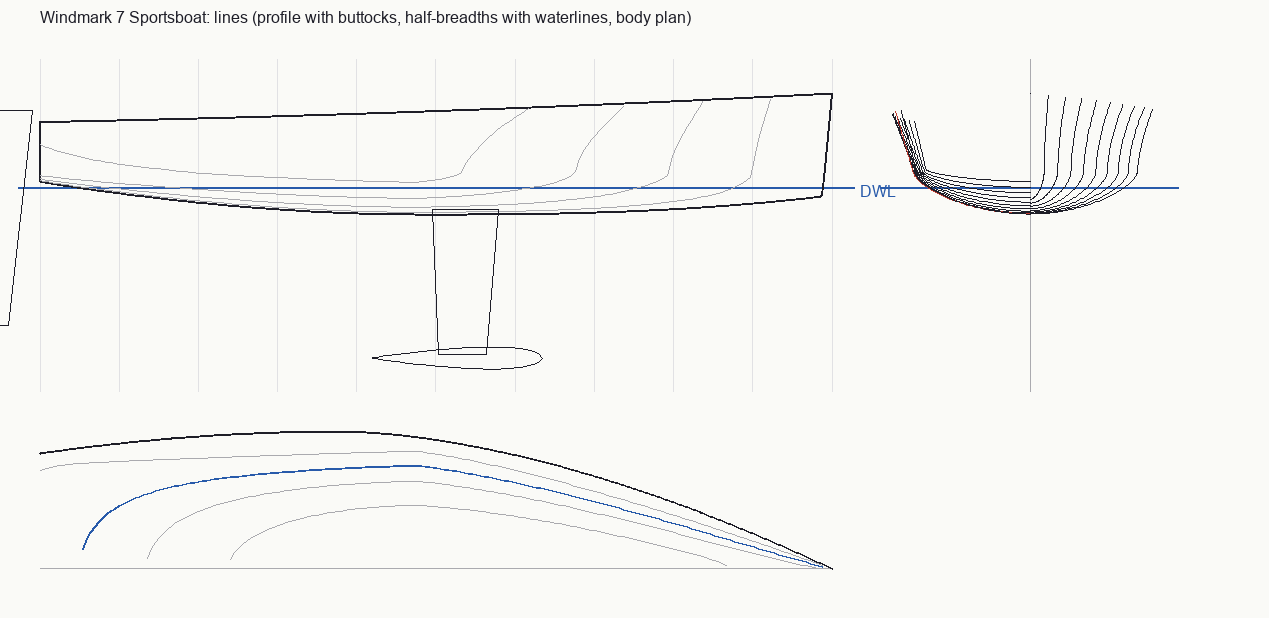
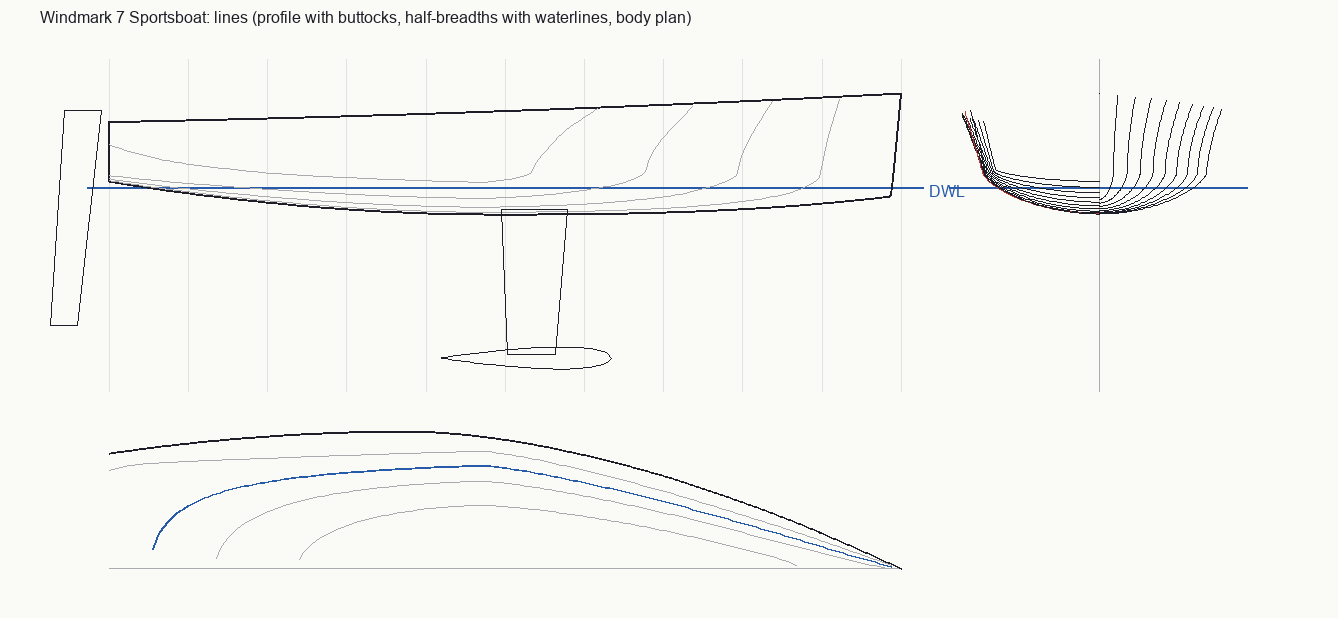
[docs] Boat generator README, third-party rows; preview look and framing
- brighter sky and deeper water, gelcoat / non-slip contrast
- sail edge tapes, full-length battens, demo sheer stripe through uv1
- lines plan fits transom-hung rudders

diff --git a/tools/boatgen/boatgen/render.py b/tools/boatgen/boatgen/render.py
@@ -30,12 +30,12 @@ FS = """
 in vec3 v_pos; in vec3 v_nrm; in vec2 v_uv0; in vec2 v_uv1; in vec4 v_lpos;
 uniform vec4 base_color; uniform float metallic; uniform float roughness; uniform int mat_id;
 uniform vec3 cam_pos; uniform vec3 sun_dir; uniform sampler2D shadow_map; uniform int uv_check;
-uniform int water_on; uniform int hull_livery;
+uniform int water_on; uniform int hull_livery; uniform int battens;
 layout(location = 0) out vec4 frag;
 
 vec3 sky(vec3 d) {
     float h = clamp(d.y, -1.0, 1.0);
-    vec3 zen = vec3(0.18, 0.36, 0.70), hor = vec3(0.78, 0.85, 0.92), gnd = vec3(0.10, 0.16, 0.20);
+    vec3 zen = vec3(0.10, 0.27, 0.62), hor = vec3(0.66, 0.77, 0.90), gnd = vec3(0.05, 0.12, 0.17);
     vec3 c = h > 0.0 ? mix(hor, zen, pow(h, 0.55)) : mix(hor * 0.6, gnd, pow(-h, 0.4));
     float s = max(dot(d, sun_dir), 0.0);
     return c + vec3(1.0, 0.92, 0.8) * (pow(s, 600.0) * 30.0 + pow(s, 12.0) * 0.25);
@@ -86,6 +86,15 @@ void main() {
         float w = fwidth(uv.y) * 1.5 + 0.008;
         albedo *= 1.0 - 0.18 * (1.0 - smoothstep(0.0, w, 0.45 - s));
         albedo *= 0.96 + 0.04 * sin(uv.x * 0.7);
+        // edge tapes and batten pockets from the normalised uv1 (u: luff 0 -> leech 1, v: head 0 -> foot 1)
+        vec2 s1 = v_uv1;
+        float eu = min(s1.x, 1.0 - s1.x), ev = 1.0 - s1.y;
+        float tape = 1.0 - smoothstep(0.012, 0.018, min(eu, ev));
+        float bv = fract(s1.y * 5.0);
+        // full-length battens (the two layers mirror uv1, so luff and leech are not told apart here)
+        float batten = (1.0 - smoothstep(0.004, 0.007, abs(bv - 0.5) * 0.2)) * step(0.04, eu)
+                       * step(0.08, s1.y) * step(s1.y, 0.92) * float(battens);
+        albedo = mix(albedo, vec3(0.12, 0.13, 0.15), max(tape, batten * 0.45));
     }
     if (hull_livery == 1 && mat_id == 0 && uv_check == 0) {
         // demonstration livery through uv1: a sheer stripe on both hull bands
@@ -105,9 +114,9 @@ void main() {
     vec3 F = F0 + (1.0 - F0) * pow(1.0 - max(dot(H, V), 0.0), 5.0);
     vec3 spec = D * G * F / max(4.0 * NL * NV, 1e-3);
     float sh = shadow();
-    vec3 sun = vec3(3.1, 2.95, 2.7);
+    vec3 sun = vec3(3.6, 3.4, 3.1);
     vec3 diff = albedo * (1.0 - metal) / 3.14159;
-    vec3 amb = albedo * (1.0 - metal) * mix(vec3(0.22, 0.20, 0.18), vec3(0.42, 0.50, 0.62), N.y * 0.5 + 0.5);
+    vec3 amb = albedo * (1.0 - metal) * mix(vec3(0.16, 0.15, 0.14), vec3(0.34, 0.42, 0.56), N.y * 0.5 + 0.5);
     vec3 R = reflect(-V, N);
     vec3 Fr = F0 + (1.0 - F0) * pow(1.0 - NV, 5.0);
     vec3 env = sky(R) * Fr * pow(1.0 - rough, 2.2) * (metal > 0.5 ? 1.0 : 0.6);
@@ -118,7 +127,7 @@ void main() {
     }
     if (water_on == 1 && v_pos.y < 0.0) { // under water: absorb toward the water colour with depth
         float d = -v_pos.y;
-        col = mix(col, vec3(0.02, 0.10, 0.12), 1.0 - exp(-d * 1.1));
+        col = mix(col, vec3(0.01, 0.07, 0.09), 1.0 - exp(-d * 0.9));
     }
     frag = vec4(col, 1.0);
 }
@@ -131,7 +140,7 @@ uniform vec3 cam_pos; uniform vec3 sun_dir; uniform sampler2D shadow_map;
 layout(location = 0) out vec4 frag;
 vec3 sky(vec3 d) {
     float h = clamp(d.y, -1.0, 1.0);
-    vec3 zen = vec3(0.18, 0.36, 0.70), hor = vec3(0.78, 0.85, 0.92);
+    vec3 zen = vec3(0.10, 0.27, 0.62), hor = vec3(0.66, 0.77, 0.90);
     vec3 c = mix(hor, zen, pow(max(h, 0.0), 0.55));
     float s = max(dot(d, sun_dir), 0.0);
     return c + vec3(1.0, 0.92, 0.8) * (pow(s, 900.0) * 40.0);
@@ -145,7 +154,7 @@ void main() {
     vec3 V = normalize(cam_pos - v_pos);
     float F = 0.02 + 0.98 * pow(1.0 - max(dot(N, V), 0.0), 5.0);
     vec3 R = reflect(-V, N);
-    vec3 deep = vec3(0.012, 0.07, 0.10);
+    vec3 deep = vec3(0.006, 0.045, 0.075);
     vec3 s = v_lpos.xyz / v_lpos.w * 0.5 + 0.5;
     float sh = 1.0;
     if (s.x > 0.0 && s.x < 1.0 && s.y > 0.0 && s.y < 1.0) sh = (s.z - 0.001 > texture(shadow_map, s.xy).r) ? 0.55 : 1.0;
@@ -284,7 +293,8 @@ class Renderer:
         quad = np.array([-1, -1, 1, -1, -1, 1, 1, 1], dtype="f4")
         self.quad = ctx.vertex_array(self.post_prog, [(ctx.buffer(quad), "2f", "in_pos")])
 
-    def load(self, glb_path, extra=None, hide=(), transform=None):
+    def load(self, glb_path, extra=None, hide=(), transform=None, battened=()):
+        self.battened = tuple(battened)
         prims, doc = read_glb(glb_path)
         if transform is not None:
             R = np.asarray(transform, dtype=np.float64)
@@ -339,7 +349,7 @@ class Renderer:
         mvp = (Pm @ V).astype("f4")
         self.ms_fbo.use()
         ctx.viewport = (0, 0, self.W, self.H)
-        bg = (0.80, 0.85, 0.90) if background is None else background
+        bg = (0.66, 0.77, 0.90) if background is None else background
         self.ms_fbo.clear(*bg, 1.0, depth=1.0)
         self.shadow_tex.use(0)
         p = self.prog
@@ -356,6 +366,7 @@ class Renderer:
             _set(p, "metallic", pbr["metallicFactor"])
             _set(p, "roughness", pbr["roughnessFactor"])
             _set(p, "mat_id", MAT_IDS.get(mat, 0))
+            _set(p, "battens", int(name in self.battened))
             vao.render()
         if water or ground:
             S = 400.0
@@ -374,6 +385,7 @@ class Renderer:
                 ctx.blend_func = self.mgl.SRC_ALPHA, self.mgl.ONE_MINUS_SRC_ALPHA
             else:
                 prog = self.prog
+                _set(prog, "uv_check", 0)
                 _set(prog, "base_color", (0.55, 0.56, 0.57, 1.0))
                 _set(prog, "metallic", 0.0)
                 _set(prog, "roughness", 0.9)
@@ -397,8 +409,8 @@ class Renderer:
         _write(pp, "proj", Pm.astype("f4").T.tobytes())
         _set(pp, "texel", (1 / self.W, 1 / self.H))
         _set(pp, "ao_radius", float(np.linalg.norm(eye - target) * 0.012))
-        _set(pp, "bg_top", (0.55, 0.68, 0.86))
-        _set(pp, "bg_bot", (0.86, 0.89, 0.92))
+        _set(pp, "bg_top", (0.30, 0.50, 0.80))
+        _set(pp, "bg_bot", (0.78, 0.85, 0.93))
         _set(pp, "bg_on", 1)
         self.quad.render(self.mgl.TRIANGLE_STRIP)
         img = np.frombuffer(self.out_fbo.read(components=3), dtype=np.uint8).reshape(self.H, self.W, 3)

diff --git a/tools/boatgen/boatgen/previews.py b/tools/boatgen/boatgen/previews.py
@@ -21,6 +21,7 @@ def render_all(boat, out_dir, preview_dir, size=(1600, 1000), log=print):
     glb = os.path.join(out_dir, f"{cid}.glb")
     files = []
     r = Renderer(*size)
+    bat = tuple("sail_" + sid for sid, s in boat.sails.items() if s.type == "main")
 
     def shot(name, **kw):
         path = os.path.join(preview_dir, f"{cid}_{name}.png")
@@ -30,15 +31,16 @@ def render_all(boat, out_dir, preview_dir, size=(1600, 1000), log=print):
     # 1. hero: upwind, heeled, from the windward bow quarter
     posed = os.path.join(out_dir, f"{cid}_upwind.glb")
     boat.write_posed_glb(posed, "upwind")
-    r.load(posed, transform=heel_matrix(14))
-    t = np.array([0.0, 0.36 * top, 0.05 * L])
-    shot("upwind", eye=orbit(t, 1.95 * top, 38, 9), target=t, fov=36)
+    r.load(posed, transform=heel_matrix(14), battened=bat)
+    t = np.array([-0.06 * top, 0.44 * top, 0.05 * L])
+    shot("upwind", eye=orbit(t, 1.95 * top, 38, 7), target=t, fov=36, livery=True)
     # 2. deck: flat standard model from the starboard quarter, sails hidden
     r.load(glb, hide=("sail_",))
     t = np.array([0.0, 0.55, -0.12 * L])
     shot("deck", eye=orbit(t, 0.62 * L, -145, 34), target=t, fov=42)
     # 3. profile: the model as exported (flat standard sails), dry, from starboard
-    r.load(glb, hide=tuple(f"sail_{sid}" for sid, s in boat.sails.items() if s.type not in ("main", "jib", "genoa")))
+    r.load(glb, hide=tuple(f"sail_{sid}" for sid, s in boat.sails.items() if s.type not in ("main", "jib", "genoa")),
+           battened=bat)
     t = np.array([0.0, 0.42 * top - 0.3 * boat.app.draft, 0.1 * L])
     shot("profile", eye=orbit(t, 2.2 * top, -90, 3), target=t, fov=33, water=False, ground=True)
     # 4. downwind with the spinnaker (or reaching with a code zero)
@@ -47,9 +49,9 @@ def render_all(boat, out_dir, preview_dir, size=(1600, 1000), log=print):
     if pose:
         posed = os.path.join(out_dir, f"{cid}_{pose}.glb")
         boat.write_posed_glb(posed, pose)
-        r.load(posed, transform=heel_matrix(7))
-        t = np.array([-0.1 * L, 0.38 * top, 0.1 * L])
-        shot(pose, eye=orbit(t, 2.0 * top, -128, 8), target=t, fov=38)
+        r.load(posed, transform=heel_matrix(7), battened=bat)
+        t = np.array([-0.12 * top, 0.44 * top, 0.1 * L])
+        shot(pose, eye=orbit(t, 1.95 * top, -128, 7), target=t, fov=38, livery=True)
     # 5. uv check on the flat model
     r.load(glb, hide=("sail_",))
     t = np.array([0.0, 0.2, 0.0])

diff --git a/tools/boatgen/boatgen/lines.py b/tools/boatgen/boatgen/lines.py
@@ -9,7 +9,8 @@ def draw(hull, appendages, path, title="", px_per_m=110):
     zmin = -appendages.get("draft", hull.Tc) - 0.2
     zmax = float(hull.zs(np.array([L]))[0]) + 0.3
     m = 40
-    W = int(L * px_per_m + 2 * m + B * px_per_m * 1.3 + m)
+    x_min = min([0.0] + [p[0] for poly in appendages.get("profiles", []) for p in poly]) - 0.1
+    W = int((L - x_min) * px_per_m + 2 * m + B * px_per_m * 1.3 + m)
     prof_h = (zmax - zmin) * px_per_m
     H = int(prof_h + B / 2 * px_per_m + 3 * m + 30)
     img = Image.new("RGB", (W, H), (250, 250, 247))
@@ -20,7 +21,7 @@ def draw(hull, appendages, path, title="", px_per_m=110):
         font = ImageFont.load_default()
     ink, grey, blue, red = (30, 30, 40), (170, 170, 175), (40, 90, 170), (190, 60, 50)
     oy = m + 20 + zmax * px_per_m     # DWL row of the profile view
-    ox = m
+    ox = m - x_min * px_per_m
 
     def P(x, z):
         return (ox + x * px_per_m, oy - z * px_per_m)

diff --git a/tools/boatgen/boatgen/gltf.py b/tools/boatgen/boatgen/gltf.py
@@ -11,8 +11,8 @@ import numpy as np
 
 # name -> (base colour RGBA linear, metallic, roughness, extras)
 MATERIALS = {
-    "gelcoat":     ((0.86, 0.87, 0.88, 1.0), 0.0, 0.18, {"tiling_m": 1.0}),
-    "nonslip":     ((0.62, 0.64, 0.65, 1.0), 0.0, 0.85, {"tiling_m": 0.25}),
+    "gelcoat":     ((0.90, 0.91, 0.92, 1.0), 0.0, 0.16, {"tiling_m": 1.0}),
+    "nonslip":     ((0.58, 0.59, 0.58, 1.0), 0.0, 0.85, {"tiling_m": 0.25}),
     "antifouling": ((0.035, 0.045, 0.07, 1.0), 0.0, 0.75, {"tiling_m": 1.0}),
     "boottop":     ((0.50, 0.03, 0.03, 1.0), 0.0, 0.25, {"tiling_m": 1.0}),
     "carbon":      ((0.035, 0.035, 0.038, 1.0), 0.1, 0.30, {"tiling_m": 0.05}),

diff --git a/tools/boatgen/README.md b/tools/boatgen/README.md
@@ -1,0 +1,195 @@
+# boatgen: parametric boat generator
+
+Builds a complete racing-yacht model from a boat-class file (`data/classes/<id>.boat.json`, schema
+`windmark.boatclass/1`, see `docs/specs/data_format.md` §3): a faired hull, deck with cockpit and cabin top,
+keel fin and bulb, rudder, mast, boom, spreaders and standing rigging, flat two-layer sails in their standard
+hoisted shape, and rule-placed deck hardware. It also writes the physics sidecar (hydrostatics, waterline,
+buoyancy samples, collision shapes, rig and sail data) and renders preview images headless.
+
+Status: proof of concept. See "Limits and next steps" at the end.
+
+## Running
+
+```
+cd tools/boatgen
+python3 -m boatgen ../../data/classes/wm12.boat.json ../../data/classes/wm7.boat.json
+```
+
+Options: `--out DIR` (default `tools/boatgen/out/`, not committed), `--previews DIR` (default
+`tools/boatgen/previews/`), `--no-previews`, `--size 1600x1000`, `--quiet`. About 8 s per boat on an M-series Mac.
+
+Dependencies: Python 3.9+, `numpy`, `Pillow`; previews also need `moderngl` (`pip3 install --user moderngl`),
+which opens a headless OpenGL 4.1 context (no window). Nothing else: the GLB writer, triangulation, lofting and
+hydrostatics are in this package.
+
+## Outputs (per class, in `--out`)
+
+| file | content |
+| --- | --- |
+| `<id>.glb` | the model, flat standard sails |
+| `<id>_collision.glb` | low-poly collision meshes (node names carry Godot's `-convcolonly` import suffix) |
+| `<id>.physics.json` | physics sidecar (below) |
+| `<id>_upwind.glb`, `<id>_downwind.glb` | preview poses only: sails trimmed with camber and twist, boom swung |
+
+Previews in `previews/`: `<id>_upwind.png` (heeled, trimmed, demo livery), `<id>_downwind.png` (spinnaker set),
+`<id>_profile.png` (the exported model as is, dry, from starboard), `<id>_deck.png` (cockpit and deck
+hardware), `<id>_uv.png` (0.25 m checker on uv0 of every surface) and `<id>_lines.png` (lines plan: profile with
+buttocks, half-breadths with waterlines, body plan).
+
+## Frames and units
+
+SI units, angles in radians. The class file and the physics sidecar use the boat body frame of
+`docs/specs/conventions.md` §3: x forward, y port, z up, origin on the centreline in the DWL plane at mid LWL.
+The GLB uses the same origin with glTF axes: `(X, Y, Z) = (y, z, x)`, so +Y is up, +Z is forward and +X is port.
+That is a rotation, not a mirror, so triangle winding is preserved. Internally the modules work with x measured
+forward from the transom; `classfile.py` converts.
+
+The DWL floats the boat in sailing trim with the crew aboard: the generated hull displaces
+`hull.displacement + crew.weight`.
+
+## Class-file fields
+
+All base fields are those of `docs/specs/data_format.md` §3 and are used as specified there:
+`hull.{loa, lwl, beam_max, bwl, draft_canoe, displacement, prismatic, section_shape, rocker, freeboard,
+transom_width, stem_x, transom_x, max_beam_station, lcb_x, bow_fineness}`, `keel.{type, depth, chord_root,
+chord_tip, thickness, sweep, x, fin_mass, bulb_mass, bulb_length, bulb_diameter}`, `rudder.{type, depth,
+chord_root, chord_tip, thickness, x}`, `rig.{I, J, P, E, mast_height, mast_x, boom_height, fractional,
+bowsprit, pole}`, `sails[].{id, type, area, luff, tack_x}`, `crew.{count, weight}`.
+
+How the generator reads a few of them:
+
+- `section_shape.type` sets the bottom section family (`v`, `round`, `u`, `flat`, `chined`); `deadrise` bends
+  `v` and `chined` bottoms; `chine_height` is the height of the hard chine. `midship_coefficient` is **not**
+  imposed: with Cp, LWL, BWL, Tc and the displaced volume all fixed, Cm is already determined
+  (V = Cp · Cm · LWL · BWL · Tc). The generator hits the volume and Cp exactly and reports the resulting Cm next
+  to the requested one (`hydrostatics.midship` and `midship_requested`).
+- `rocker.fwd` below `draft_canoe` gives a forefoot below the DWL (plumb-bow style); `rocker.aft` below
+  `draft_canoe` gives an immersed transom and then needs `transom_x = -lwl/2`.
+- `lcb_x` is the LCB target (default 53.5 % LWL aft of the forward end when absent).
+- `max_beam_station` and `bow_fineness` shape the sheer plan view with the rule of `collisions.md` §2.1, so the
+  2-D collision outline and the 3-D deck edge agree.
+- `sails[].area` is matched exactly by the flat outline (mainsail roach, headsail clew position, spinnaker
+  width). `luff` and `tack_x` override the rig-derived values when given; `leech` and `foot` are not used yet.
+
+### `visual` block (generator only, opaque to the core and the VPP)
+
+Every key is optional; defaults scale with LOA.
+
+| key | default | meaning |
+| --- | --- | --- |
+| `hull.max_bwl_pos` | 0.55 | widest waterline, fraction of LWL aft of the forward end |
+| `hull.max_draft_pos` | 0.55 | deepest canoe body, fraction of LWL aft of the forward end |
+| `hull.keel_line_exponent` | 2.6 | keel-line fullness (2 = parabolic, larger = flatter bottom) |
+| `hull.bilge_height` | 0.18 · mid freeboard | height of the bilge turn above the DWL |
+| `hull.topside_flare` | 1.7 | topside curve exponent (1 = straight flare) |
+| `hull.transom_bottom_width` | 0.9 · transom_width | width of the hull bottom at the transom |
+| `hull.deck_camber` | 0.022 | deck crown as a fraction of the local beam |
+| `hull.sheer_spring` | 0 | extra sag of the sheer at mid length (m) |
+| `hull.boot_top` | [0.04, 0.10] | antifouling up to [0], boot-top stripe up to [1] (m above the DWL) |
+| `hull.stem_radius` | 0.04 | forefoot rounding (m) |
+| `hull.lcb_fraction` | 0.535 | LCB target when `hull.lcb_x` is absent |
+| `hull.chine_start` | 0.42 | where a hard chine begins, fraction of LOA aft of the stem |
+| `deck.cockpit` | length 0.30 LOA, width 0.62, depth 0.42 (LOA/12)^0.5, open_transom true, aft_deck 0 | cockpit well: width as a fraction of the local half-beam |
+| `deck.cabin` | length 0.28 LOA, height 0.26 (LOA/12)^0.6, width 0.58, side_slope 0.22, windows true | coachroof; `null` for a flush deck |
+| `deck.nonslip_margin` | 0.05 | smooth gelcoat border around non-slip panels (m) |
+| `deck.toe_rail` | 0.035 (LOA/12)^0.4 | toe-rail size (m) |
+| `deck.lifelines` | LOA >= 9 m | stanchions, lifelines, pulpit and pushpit |
+| `deck.steering` | wheel from 11 m, else tiller | `wheel` or `tiller` |
+| `deck.hatches` | 2 from 9 m, else 1 | foredeck hatch, plus one on the cabin top |
+| `keel.bulb_flat` | 1.25 | bulb cross-section width / height |
+| `rudder.sweep` | 0.10 | rudder quarter-chord sweep (rad) |
+| `rig.mast_chord` | 0.0105 · mast_height + 0.02 | mast section fore-and-aft size (m) |
+| `rig.mast_width` | 0.62 | mast section width / chord |
+| `rig.spreaders` | 2 above 13 m mast height, else 1 | spreader pairs |
+| `rig.spreader_sweep` | 0.35 | spreader sweep (rad) |
+| `rig.backstay` | fractional > 0.93 | permanent backstay to the transom |
+| `sails.<id>.head_width` | 0.28 | mainsail head width as a fraction of E |
+| `sails.<id>.clew_height` | 0.35 (LOA/12)^0.5 | headsail clew height above the deck (m) |
+| `sails.<id>.luff_frac` | 0.96 | headsail luff as a fraction of the forestay |
+
+## How the geometry is made
+
+**Hull** (`hull.py`). Each station is a superellipse bottom from the keel point to the bilge turn, then a topside
+curve up to the sheer, meeting with a vertical tangent so the skin is smooth (or creased, aft of the chine
+start, for `chined`). Five longitudinal curves drive the stations: the profile (keel line, forefoot and raked
+stem), the bilge-turn height and half-breadth, the sheer height (through the three freeboards) and the sheer
+half-breadth (the class plan-view rule). A solver then fits the bilge breadth to BWL, the section fullness to the
+canoe-body volume (DWL mass over water density, minus the meshed appendages), and the entrance and run fullness
+to Cp and LCB with a 2 x 2 Newton step. LWL and Tc are exact by construction.
+
+**Deck** (`deck.py`). A cambered surface between the sheer lines, meshed as two strips from the sheer in to the
+cockpit and cabin outline, with gelcoat margins around non-slip panels. The cockpit is a well running aft to an
+open transom; the cabin top rounds in to the centreline at its front, with leaning sides, a filleted roof edge,
+side windows, companionway and sliding hatch. The transom face, toe rail and rub strake close it off.
+
+**Appendages** (`appendages.py`). NACA 00xx fin and rudder lofted from root to tip; the bulb is a flattened body
+of revolution sized so its volume holds the bulb mass in lead.
+
+**Rig and sails** (`rig.py`, `sails.py`). Tapered mast section, swept spreaders, shrouds with terminals, forestay,
+backstay, bobstay, sprit, boom with vang. Sails are Coons patches over their edges on a regular grid (rows from
+foot to head, columns from luff to leech), so the simulation can deform them.
+
+**Hardware** (`hardware.py`). A library of parametric parts (self-tailing winch, horn and cam cleats, clutch bank,
+block, track and car, stanchion, bent-tube frames, wheel, hatch) placed by rules that read the deck, cockpit and
+rig: primaries beside the cockpit, halyard winches and clutches on the cabin top, jib tracks under the clew,
+traveller under the boom end with a four-part mainsheet, cleats at bow and quarters, lifelines at about 2 m
+spacing.
+
+## Model structure
+
+Nodes under the root (named after the class id):
+
+| node | pivot | note |
+| --- | --- | --- |
+| `hull`, `deck`, `keel`, `mast`, `rigging`, `hardware` | | static |
+| `rudder` | rudder stock, turns about the vertical | carries the tiller when steering is `tiller` |
+| `wheel` | wheel hub, turns about fore and aft | only with `wheel` steering |
+| `boom` | gooseneck, turns about the vertical | carries the upper mainsheet block |
+| `mainsheet` | | tackle between boom and traveller; rebuild it as the boom moves |
+| `sail_<id>` | | one per class sail, flat, two layers |
+
+Pivot nodes store their geometry relative to the pivot and carry the pivot as their translation.
+
+## Materials and UVs
+
+Material slots (glTF material names, PBR factors only, no textures): `gelcoat`, `nonslip`, `antifouling`,
+`boottop`, `carbon`, `metal`, `sailcloth`, plus `glass`, `rope` and `rubber`. Each material's `extras.tiling_m`
+suggests the size of one tile of its texture.
+
+- **uv0** is metric everywhere, for tiling PBR textures: hull `u` = x along the length, `v` = girth from the keel
+  (both in metres); deck, cabin top and cockpit floor planar (x, y); walls (along, height); sails (distance from
+  the luff, height above the foot); swept parts (along the path, around the section).
+- **uv1** is normalised, for liveries and decals. Hull: one atlas with the starboard side in `v` 0..0.5 and the
+  port side in 0.5..1, sheer at the top of each band, `u` running so text reads bow-first on both sides. Sails:
+  (chord fraction, 1 - height fraction), with the starboard layer mirrored in `u` so a decal reads correctly from
+  both sides.
+
+The sails are two layers 2 mm apart, each with its own outward normal. Vertex order in each layer is row-major:
+vertex (row i from the foot, column j from the luff) is index `i · cols + j`; the port layer comes first.
+
+## Physics sidecar (`<id>.physics.json`)
+
+Positions in the body frame.
+
+| key | content |
+| --- | --- |
+| `hydrostatics` | displaced volume at the DWL (canoe body, fin, bulb, immersed rudder) and its error against displacement + crew, LCB (x and % LWL), VCB, LWL, BWL, Tc, waterplane area, LCF, transverse and longitudinal BM, Cp, Cm (with the requested Cm), Cb, Cwp, wetted surface, kg per cm immersion, lightship rise, bulb lead volume and ballast ratio, lateral areas, and the solver's fitted knobs |
+| `perf_inputs` | what the performance file takes from the generator: `collision.outline` (convex, counter-clockwise, `collisions.md` §2.1), `hull_points` on the real waterline in the order of `sea.md` §5.1, `wind_shadow` geometry (height, ce_x, stern_x, chord, width_min, width_spinnaker, turb_width), loa, lwl, bwl |
+| `waterline` | the DWL contour, port and starboard |
+| `buoyancy_samples` | skin samples up to the sheer with outward normal and area, for pressure integration at any heel and trim (`canoe_volume_check_m3` is their immersed volume by the divergence theorem) |
+| `collision_meshes` | closed low-poly hull (canoe body to the deck crown), fin, bulb and rudder slabs |
+| `rig` | mast step, masthead, hounds, forestay tack, boom pivot and axis, sprit end, rudder stock and axis, wheel hub, spreader tips |
+| `sails` | per sail: node, type, grid size, vertex order, flat area and target, centroid, corner vertices (tack, clew, head) |
+
+## Limits and next steps
+
+- The look relies on geometry and flat PBR factors. A shipped boat needs texture sets for each slot (gelcoat
+  with subtle orange peel, non-slip, carbon weave, sailcloth with panels and film), baked ambient occlusion for
+  the hull and deck, and livery decals through uv1.
+- No crew, running rigging (halyards, sheets other than the mainsheet), instruments or sail numbers yet; the
+  organisers at the mast foot are single blocks.
+- The flat spinnaker outline is a centreline projection; its flying shape comes from the simulation.
+- One LOD. The model is about 50 to 60 k triangles; a game needs two or three LODs (fewer stations, hardware
+  dropped or merged) and a draw-call budget per boat.
+- Multihulls are not supported (one canoe body, one keel).
+- `sails[].leech` and `foot` are not used; the hull fit leaves Cm as an outcome (see above).

diff --git a/docs/THIRD_PARTY.md b/docs/THIRD_PARTY.md
@@ -2,3 +2,6 @@
 
 | Name | Where used | Licence | Source |
 | --- | --- | --- | --- |
+| NumPy | tools/boatgen (build time only) | BSD-3-Clause | https://numpy.org |
+| Pillow | tools/boatgen (build time only: PNG output) | MIT-CMU (HPND) | https://python-pillow.org |
+| moderngl, glcontext | tools/boatgen previews (build time only: headless OpenGL) | MIT | https://github.com/moderngl/moderngl |
